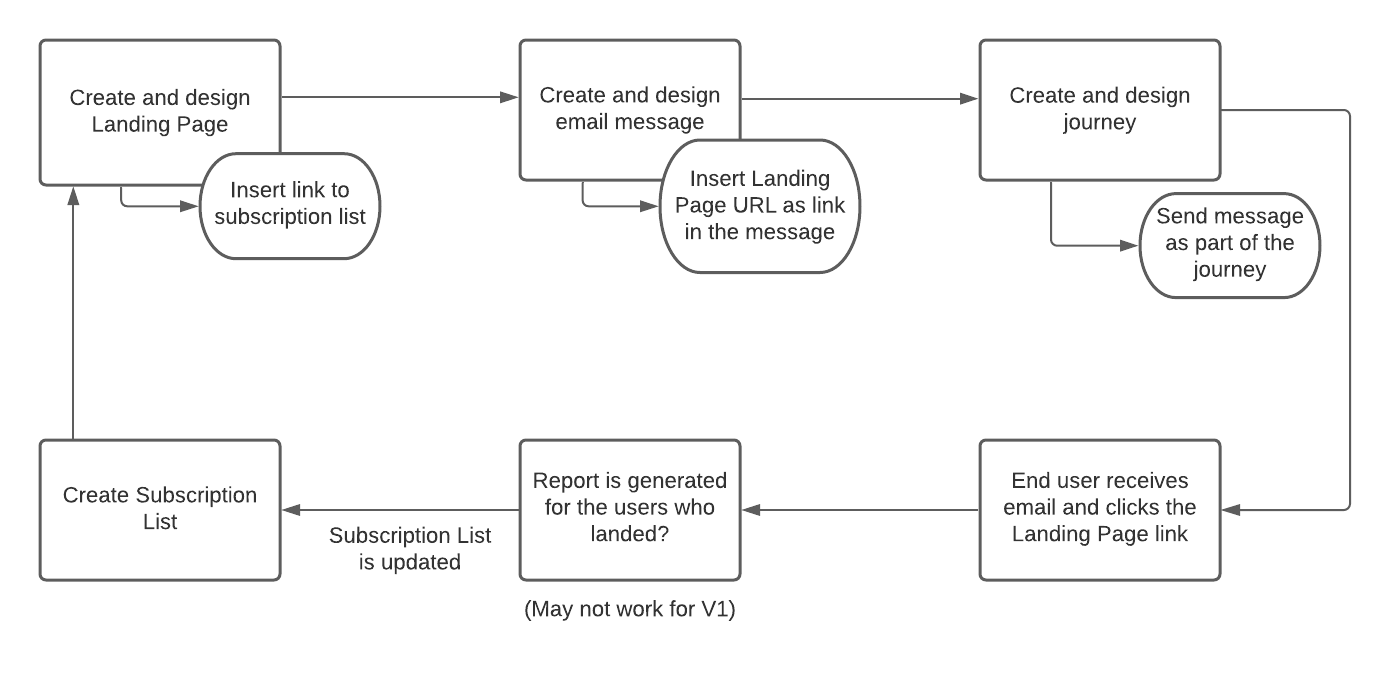
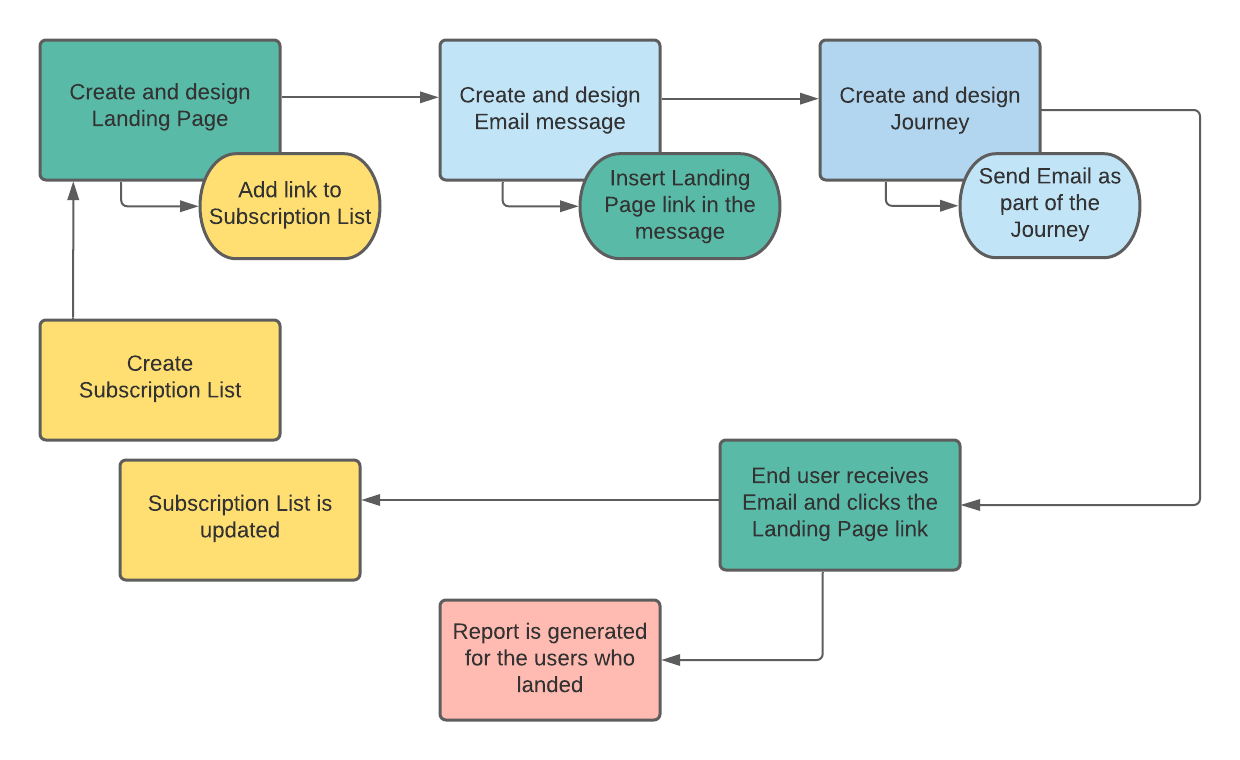
LP use cases updates

diff --git a/help/using/landing-pages/lp-use-cases.md b/help/using/landing-pages/lp-use-cases.md
@@ -1,0 +1,119 @@
+---
+title: Manage opt-out
+description: Learn how to manage opt-out and privacy
+feature: Journeys
+topic: Content Management
+role: User
+level: Intermediate
+exl-id: c5bae757-a109-45f8-bf8d-182044a73cca
+---
+# Landing page use cases
+
+Below are examples of how you can use [!DNL Journey Optimizer] landing pages to have your customers opt in/out from receiving some or all of your communications.
+
+<!--The main use cases are:
+* Subscription to a service
+* Opt-in
+* Opt-out-->
+
+## Subscription to a service {#subscription-to-a-service}
+
+The main steps to make your recipients subscribe to a service are presented below.
+
+![](../assets/lp_subscription-uc.png)
+
+For example, let's say you organize an event next month and you want to launch an event registration campaign to keep your customers that are interested updated on that event.
+
+1. Create the event registration's subscription list. Learn more on [subscription lists](subscription-list.md)
+
+1. [Create a landing page](create-lp.md), which will enable your recipients to register to your event.
+
+1. Configure and design the registration landing page, including the link to the subscription list. Learn more on building the [primary landing page](create-lp.md#configure-primary-page)
+
+1. Create a thank you page that will be displayed to your recipients once they submit the registration form. Learn more on [landing subpages](create-lp.md#configure-subpages)
+
+1. Create an email message. Learn more on [creating messages](../create-message.md)
+
+1. [Insert a link](../message-tracking.md#insert-links) to your message. Select **[!UICONTROL Landing page]** as the **[!UICONTROL Link type]** and choose the [landing page](landing-pages/create-lp.md#configure-primary-page) that you created for registration.
+
+    ![](../assets/lp_subscription-uc-link.png)
+
+1. Save your content and [publish your message](../../help/using/publish-manage-message.md).
+
+1. Send your message through a [journey](../building-journeys/journey.md) to announce registration is now open for your event and to drive traffic to the registration landing page.
+
+    Once they receive the email, if your recipients click the link to the landing page, they will be directed to the thank you page and they will be added to the subscription list.
+
+1. You can send a confirmation email to the recipients who registered for your event. To do so, send it through another journey using the **[!UICONTROL Segment qualification]** event and select the subscription list that you created as the segment.
+
+<!--The event registration's subscription list tracks the profiles who registered and you can send them targeted event updates.-->
+
+## Opting out {#opt-out}
+
+To enable your recipients to unsubscribe from your communications, you can include a link to an opt-out landing page into your emails.
+
+Learn more on managing your recipients' consent and why this is important in [this section](../consent.md).
+
+### Opt-out management {#opt-out-management}
+
+Providing the capability to recipients to unsubscribe from receiving communications from a brand is a legal requirement. Learn more about the applicable legislation in the [Experience Platform documentation](https://experienceleague.adobe.com/docs/experience-platform/privacy/regulations/overview.html#regulations){target="_blank"}.
+
+Therefore, you must always include an **unsubscribe link** in every email sent out to recipients:
+
+* Upon clicking this link, the recipients will be directed to a landing page including a button to confirm opting out.
+* Upon clicking the opt-out button, the profile data will be updated with this information.
+
+### Configure opt-out {#configure-opt-out}
+
+To enable the recipients of a message to unsubscribe from your communications through a landing page, follow the steps below.
+
+1. Build your [landing page](create-lp.md). Use the landing page-specific **[!UICONTROL Form]** component, define an **[!UICONTROL Opt-out]** checkbox and choose to update **[!UICONTROL Channel (email)]**: the profile that checks the opt-out box on your landing page will be opted out from all your communications. [Learn more](design-lp.md)
+
+    <!--You can also build your own landing page and host it on the third-party system of your choice. To keep?-->
+
+1. [Create a message](../create-message.md) in [!DNL Journey Optimizer].
+
+1. Select text in your content and [insert a link](../message-tracking.md#insert-links) using the contextual toolbar. You can also use a link on a button.
+
+    ![](../assets/lp_opt-out-insert-link.png)
+
+1. Select **[!UICONTROL Landing page]** from the **[!UICONTROL Link type]** drop-down list.
+
+1. Select the [landing page](landing-pages/create-lp.md#configure-primary-page) that you created for opting out.
+
+    ![](../assets/lp_opt-out-landing-page.png)
+
+1. Click **[!UICONTROL Save]**.
+
+1. Save your content and [publish your message](../../help/using/publish-manage-message.md).
+
+1. Send your message through a [journey](building-journeys/journey.md).
+
+1. Once the message is received, if the recipient clicks the unsubscribe link, your landing page is displayed.
+
+    <!--![](../assets/lp_opt-out-lp-example.png)-->
+
+1. If the recipient clicks the opt-out link in the landing page, the profile data is updated and will not receive communications from your brand unless subscribed again.
+
+    <!--The opted-out recipient is then redirected to a confirmation message screen indicating that opting out was successful.-->
+
+    <!--![](../assets/lp_opt-out-confirmation-example.png)-->
+
+To check that the corresponding profile's choice has been updated, go to Experience Platform and access the profile by selecting an identity namespace and a corresponding identity value. Learn more in the [Experience Platform documentation](https://experienceleague.adobe.com/docs/experience-platform/profile/ui/user-guide.html#getting-started){target="_blank"}.
+
+![](../assets/lp_opt-out-profile-choice.png)
+
+In the **[!UICONTROL Attributes]** tab, you can see the value for **[!UICONTROL choice]** has changed to **[!UICONTROL no]**.
+<!-->
+### Other ways to opt out
+
+You can also enable your recipients to unsubscribe whithout using landing pages.
+
+* **One-click opt-out**
+
+    You can add a one-click opt-out link into your email content. This will enable your recipients to quickly unsubscribe from your communications, without being redirected to a landing page where they need to confirm opting out. [Learn more](../message-tracking.md#one-click-opt-out-link)
+
+* **Unsubscribe link in header**
+
+    If the recipients' email client supports displaying an unsubscribe link in the email header, emails sent with [!DNL Journey Optimizer] automatically include this link. [Learn more](../consent.md#unsubscribe-email)
+-->

diff --git a/help/using/landing-pages/get-started-lp.md b/help/using/landing-pages/get-started-lp.md
@@ -38,52 +38,11 @@ To move to RN-->
 <td><img src="../assets/do-not-localize/icon_assets.svg" width="60px"><p><a href="create-lp.md">Create landing pages</a></p></td>
 <td><img src="../assets/do-not-localize/icon_personalization.svg" width="60px"><p><a href="subscription-list.md">Create subscription lists</a></p></td>
 <td><img src="../assets/do-not-localize/icon_design.svg" width="60px"><p><a href="design-lp.md">Design landing pages</a></p></td>
-<td><img src="../assets/do-not-localize/icon_messages.svg" width="60px"><p><a href="manage-op-out.md">Manage opt-out</a></p></td>
+<td><img src="../assets/do-not-localize/icon_messages.svg" width="60px"><p><a href="lp-uses-cases.md">Use cases</a></p></td>
 </tr>
 </table>
 
 <!--Easily build attractive/efficient landing pages to drive the best conversion.-->
-
-## Use cases
-
-Below are examples of how you can use [!DNL Journey Optimizer] landing pages to have your customers opt in/out from receiving some or all of your communications.
-
-<!--The main use cases are:
-* Subscription to a service
-* Opt-in
-* Opt-out-->
-
-### Subscription to a service {#subscription-to-a-service}
-
-For example, let's say you organize an event next month and you want to launch an event registration campaign to keep your customers that are interested updated on that event.
-
-1. Create the event registration's subscription list. [Learn more on subscription lists](subscription-list.md)
-
-1. [Create a landing page](create-lp.md), which will enable your recipients to register to your event.
-
-1. Configure and design the registration landing page, including the link to the subscription list. [Learn more on building primary landing page](create-lp.md#configure-primary-page)
-
-1. Create a thank you page that will be displayed to your recipients once they submit the registration form. [Learn more on landing subpages](create-lp.md#configure-subpages)
-
-1. Create an email message. [Learn more on creating messages](../create-message.md)
-
-1. [Insert a link](../message-tracking.md#insert-links) to your message. Select **[!UICONTROL Landing page]** as the **[!UICONTROL Link type]** and choose the [landing page](landing-pages/create-lp.md#configure-primary-page) that you created for registration.
-
-1. Save your content and [publish your message](../../help/using/publish-manage-message.md).
-
-1. Send your message through a [journey](../building-journeys/journey.md) to announce registration is now open for your event and to drive traffic to the registration landing page.
-
-Once they receive the email, if your recipients click the link to the landing page, they will be directed to the thank you page and they will be added to the subscription list.
-
-The event registration's subscription list tracks the profiles who registered and you can send them targeted event updates.
-
-![](../assets/lp_subscription-uc.png)
-
-### Opting out {#opt-out}
-
-To enable your recipients to unsubscribe from your communications, you can include a link to an unsubscription landing page into your emails.
-
-The steps to implement this are detailed in [this section](manage-op-out.md#add-unsubscribe-link).
 
 <!--**Questions**
 

diff --git a/help/using/landing-pages/design-lp.md b/help/using/landing-pages/design-lp.md
@@ -41,7 +41,7 @@ To define landing-page specific content, follow the steps below.
 
 1. From the **[!UICONTROL Checkbox 1]** section, you can edit the label corresponding to this checkbox.
 
-1. Define if this checkbox is to opt users in or out: if they check the box, do they agree to receive communications or do they ask not to be contacted any more?
+1. Define if this checkbox is to opt users in or out: do they agree to receive communications or do they ask not to be contacted any more?
 
     ![](../assets/lp_designer-form-update.png)
 
@@ -57,7 +57,7 @@ To define landing-page specific content, follow the steps below.
 
         ![](../assets/lp_designer-form-subs-list.png)
 
-    * **[!UICONTROL Channel (email)]**: The opt-in or opt-out applies to the whole channel. For example, if a profile that opts out has two email addresses, both addresses will be excluded from your communications.
+    * **[!UICONTROL Channel (email)]**: The opt-in or opt-out applies to the whole channel. For example, if a profile that opts out has two email addresses, both addresses will be excluded from all your communications.
 
     * **[!UICONTROL Email entity]**: The opt-in or opt-out only applies to the email address that was used to access the landing page. For example, if a profile has two email addresses, only the one that was used to opt in will receive communications from your brand.
 

diff --git a/help/TOC.md b/help/TOC.md
@@ -129,9 +129,10 @@ solution: Journey Optimizer
   + [Create a landing page](using/landing-pages/create-lp.md)
   + [Design a landing page](using/landing-pages/design-lp.md)
   + [Create a subscription list](using/landing-pages/subscription-list.md)
-  + [Manage opt-out](using/landing-pages/manage-op-out.md)
-  + [Landing page reporting](using/landing-pages/lp-report.md)
-  + [Subscription list reporting](using/landing-pages/subscription-report.md)
+  + [Use cases](using/landing-pages/lp-use-cases.md)
+  + Reporting {#lp-reporting}
+    + [Landing page reporting](using/landing-pages/lp-report.md)
+    + [Subscription list reporting](using/landing-pages/subscription-report.md)
 + Decision management {#offer-decisioniong}
   + Get started with Decision management {#get-started}
     + [About Decision management](using/offers/get-started/starting-offer-decisioning.md)

diff --git a/help/using/landing-pages/create-lp.md b/help/using/landing-pages/create-lp.md
@@ -139,7 +139,7 @@ While you are creating your landing page, alerts warn you when you need to take 
 
 Alerts are displayed on top right of the screen, as shown below:
 
-![](../assets/lp-alerts.png)
+![](../assets/lp_alerts.png)
 
 >[!NOTE]
 >
